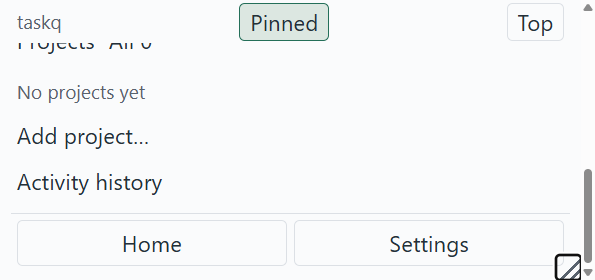
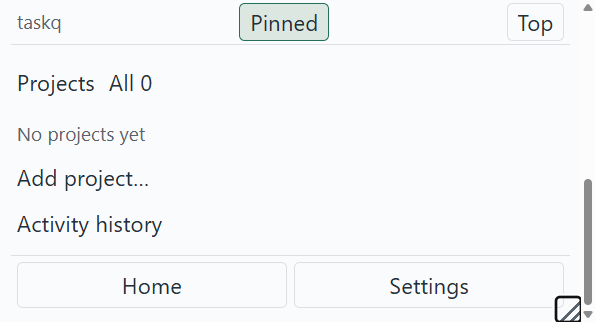
docs(tray): bind rebased native captures and remaining acceptance gaps
Task: https://github.com/taskqorg/taskq/issues/1104

diff --git a/docs/design/evidence/tray-window-1104/README.md b/docs/design/evidence/tray-window-1104/README.md
@@ -9,6 +9,8 @@ The native GNU development artifact and UI source blob IDs are bound in [observa
 - [Resize](resized.png): bottom-right pointer drag changed 320 ? 525 to 425 ? 590; saved dimensions matched. After subsequent keyboard resizing, restart restored the exact saved dimensions and Top off.
 - [Fixed header](fixed-header.png): content exceeds the resized viewport; the header's top is 0 after scrolling. Header dragging still uses the existing native drag adapter; the desktop input denial prevents its native acceptance here.
 
-Development before/after: the original `ee0373f` page let the header scroll to ?399 px and had no Top control (browser check). A native development run before the sizing correction requested 320 CSS pixels but rendered at 229 ? 375 with document height 538 at pixel ratio 1.4. The final bridge sizes physical pixels from the page's reported ratio. Browser fit/header/keyboard-resize/refresh checks passed separately; browser checks do not qualify native desktop behavior.
+Development before/after: the original `ee0373f` page let the header scroll to ?399 px and had no Top control (browser check). A native development run before the sizing correction requested 320 CSS pixels but rendered at 229 ? 375 with document height 538 at pixel ratio 1.4. After rebase, the bridge reuses the existing `popover_size` helper, including scrollbar gutter sizing, with the page's reported ratio and full work-area height. Browser fit/header/keyboard-resize/refresh checks passed separately; browser checks do not qualify native desktop behavior.
 
 Delivery gap: `docs/shots/check.sh` will detect changed tray source blobs. The required README refresh script is macOS-only (`docs/shots/update.sh`); the existing manifest is retained honestly, not relabelled as fresh. Refresh those native screenshots before merging. No full platform snapshot matrix was run.
+
+Code checks on the recorded code commit: `cargo run -- selftest` passed 69 golden traces, formats and the live board read; all ten CI UI chain scripts passed. The evidence-only commit preserves those recorded UI blobs.
